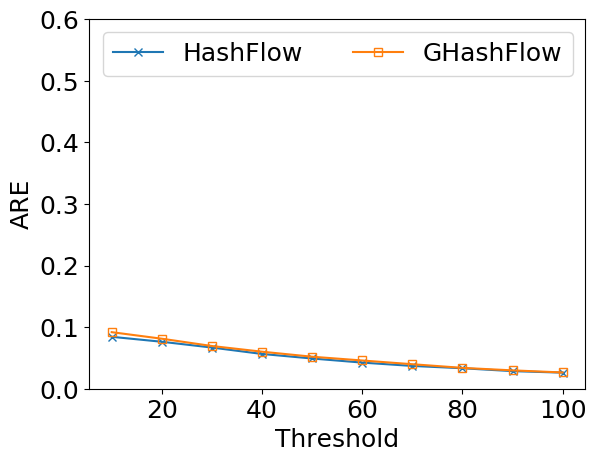
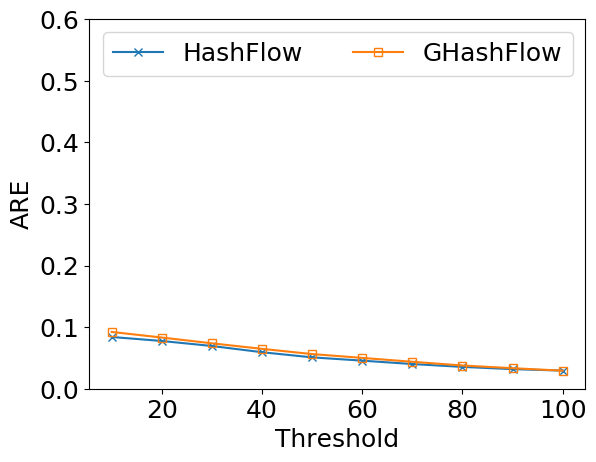
Automatic uploading. No comments!

Changed region(s): [[0.1812, 0.697, 0.9664, 0.8182]]

diff --git a/figures/exp84515/plot.py b/figures/exp84515/plot.py
@@ -7,7 +7,7 @@ import numpy as np
 font = {'size':18}
 matplotlib.rc('font', **font)
 
-n_pkts = 9*(10**6)
+n_pkts = 10*(10**6)
 
 are_30 = []
 are_40 = []
